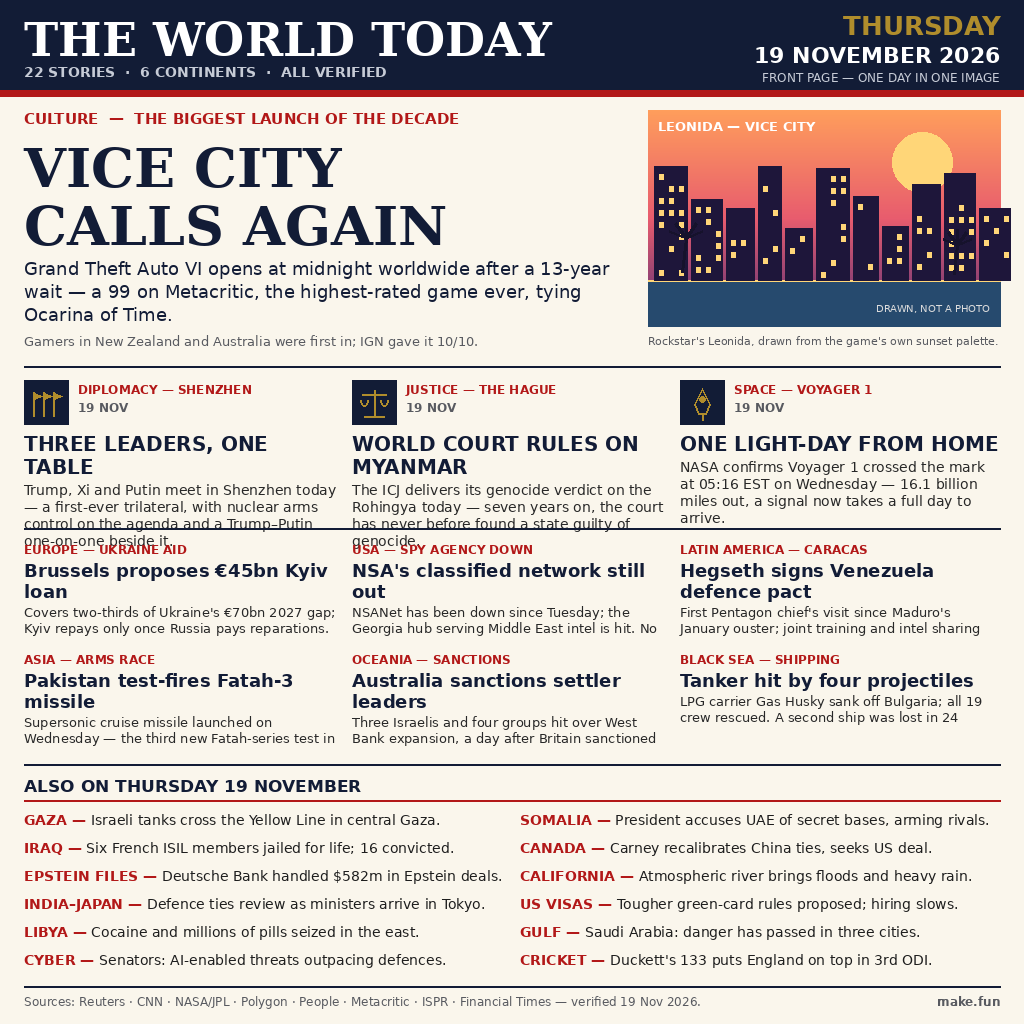
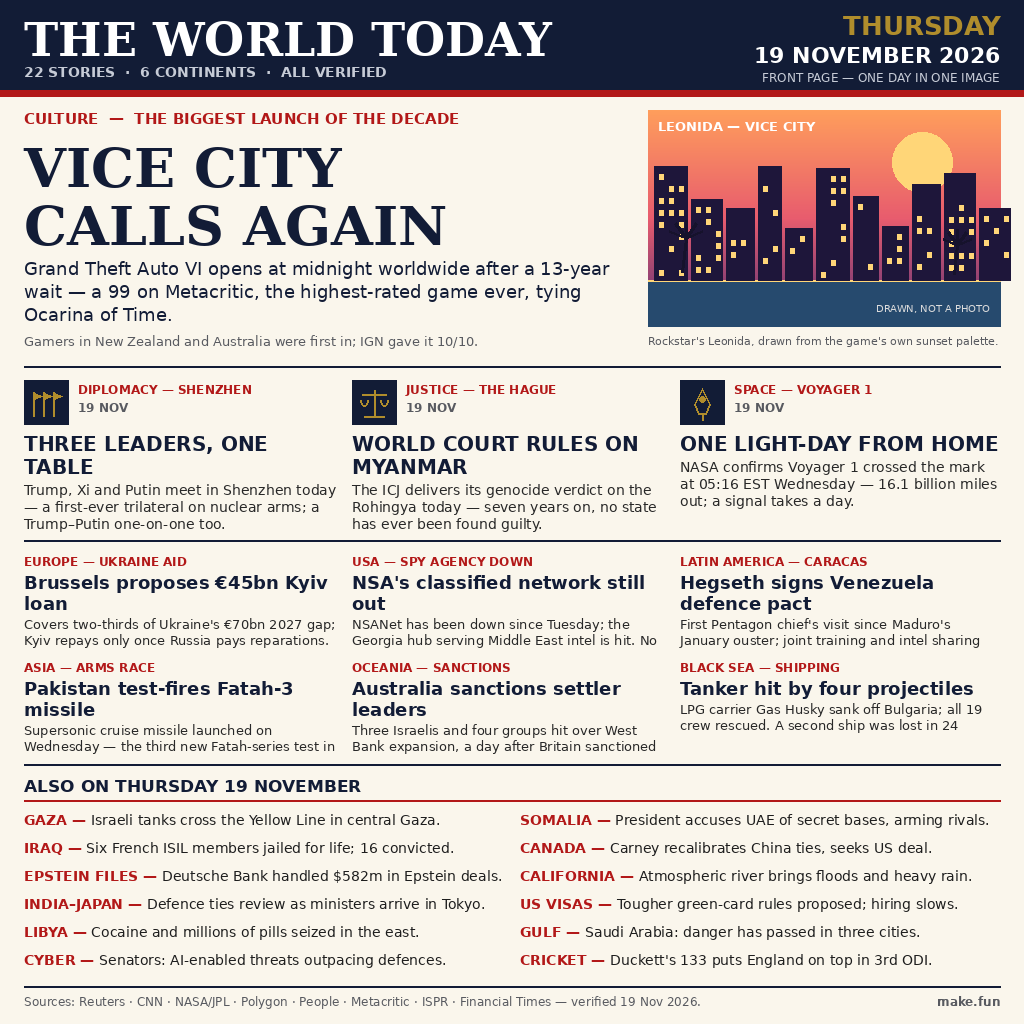
Fix top-3 deck overlap; tighten grid spacing

Changed region(s): [[0.0, 0.4688, 0.9688, 0.75]]

diff --git a/build_poster.py b/build_poster.py
@@ -179,18 +179,15 @@ def main():
         ("DIPLOMACY — SHENZHEN", "summit",
          "THREE LEADERS, ONE TABLE",
          "Trump, Xi and Putin meet in Shenzhen today — a first-ever "
-         "trilateral, with nuclear arms control on the agenda and a "
-         "Trump–Putin one-on-one beside it."),
+         "trilateral on nuclear arms; a Trump–Putin one-on-one too."),
         ("JUSTICE — THE HAGUE", "court",
          "WORLD COURT RULES ON MYANMAR",
          "The ICJ delivers its genocide verdict on the Rohingya today — "
-         "seven years on, the court has never before found a state guilty "
-         "of genocide."),
+         "seven years on, no state has ever been found guilty."),
         ("SPACE — VOYAGER 1", "probe",
          "ONE LIGHT-DAY FROM HOME",
-         "NASA confirms Voyager 1 crossed the mark at 05:16 EST on "
-         "Wednesday — 16.1 billion miles out, a signal now takes a full "
-         "day to arrive."),
+         "NASA confirms Voyager 1 crossed the mark at 05:16 EST "
+         "Wednesday — 16.1 billion miles out; a signal takes a day."),
     ]
     col_w = 320
     for i, (kick, icon, head, deck) in enumerate(top3):
@@ -202,9 +199,9 @@ def main():
         y = para(d, x, y + 52, head, fnt(SANS_B, 20), INK, col_w, 23,
                  max_lines=2)
         para(d, x, y + 4, deck, fnt(SANS, 14), (40, 40, 40), col_w, 17,
-             max_lines=4)
+             max_lines=3)
 
-    rule(d, 528)
+    rule(d, 540)
 
     # ---------- grid 2x3 ----------
     grid = [
@@ -233,11 +230,11 @@ def main():
          "LPG carrier Gas Husky sank off Bulgaria; all 19 crew rescued. "
          "A second ship was lost in 24 hours."),
     ]
-    gw, gh = 320, 104
+    gw, gh = 320, 100
     for i, (kick, head, deck) in enumerate(grid):
         col, row = i % 3, i // 3
         x = 24 + col * (gw + 8)
-        y = 542 + row * (gh + 6)
+        y = 554 + row * (gh + 6)
         d.text((x, y), kick, font=fnt(SANS_B, 12), fill=RED)
         y = para(d, x, y + 18, head, fnt(SANS_B, 18), INK, gw, 21,
                  max_lines=2)
